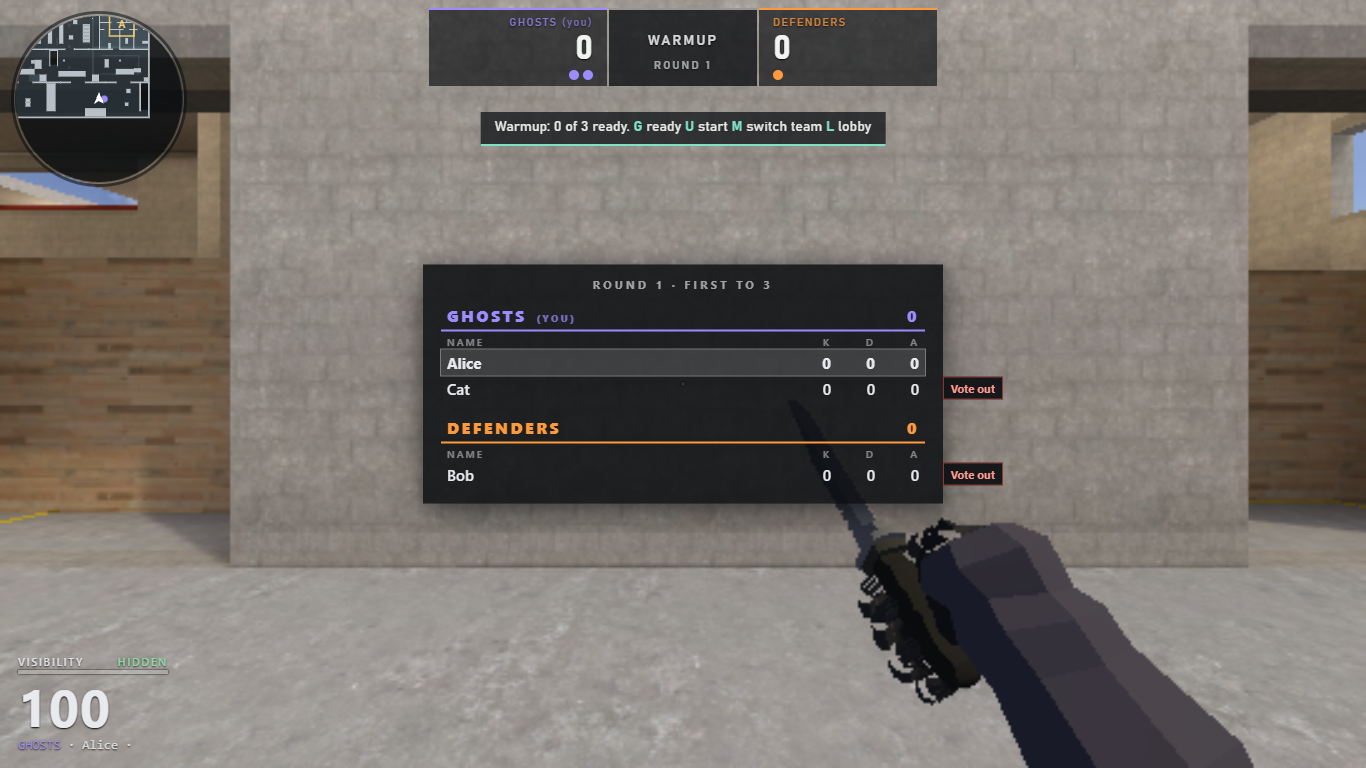
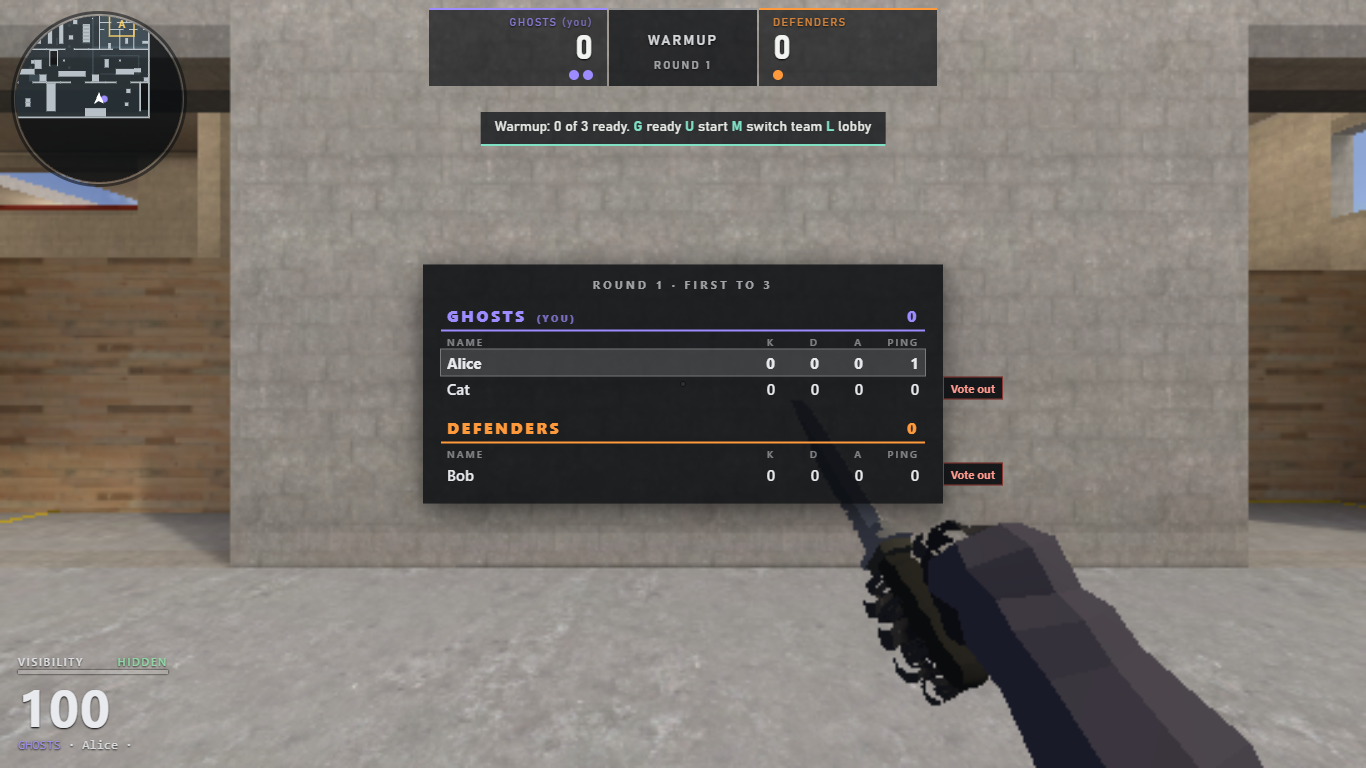
Scoreboard ping column: server-measured per-player ping (protocol 14)

diff --git a/client/src/presenter.ts b/client/src/presenter.ts
@@ -490,7 +490,7 @@ body.sb-lowhp #sb-low { display: block; }
     border-bottom: 2px solid currentColor; font: 800 16px/1 system-ui, sans-serif; letter-spacing: .15em; }
 #sb-scores .hdr.ghosts { color: #9d8cff; } #sb-scores .hdr.defenders { color: #ff9a3c; }
 #sb-scores .hdr.mine span:first-child::after { content: '  (YOU)'; white-space: pre; font-size: 10px; letter-spacing: .2em; opacity: .7; }
-#sb-scores .row { display: grid; grid-template-columns: 1fr 44px 44px 44px; padding: 4px 6px; }
+#sb-scores .row { display: grid; grid-template-columns: 1fr 44px 44px 44px 56px; padding: 4px 6px; }
 #sb-scores .row span { overflow: hidden; text-overflow: ellipsis; white-space: nowrap; }
 #sb-scores .row span + span { text-align: right; font-variant-numeric: tabular-nums; }
 #sb-scores .row.cols { opacity: .5; font-size: 10px; letter-spacing: .2em; padding-bottom: 2px; }
@@ -1365,6 +1365,7 @@ export const createPresenter: CreatePresenter = (app, camera) => {
     let scoresRosterV = -1, scoresLocalId = -1, scoresTeam: Team | null = null;
     let scoresG = -1, scoresD = -1, scoresRound = -1, scoresCarrier = -1, scoresWin = -1;
     let voteKick: ((playerId: number) => void) | null = null;
+    const pingOf = new Map<number, number>();
     let shownDeadKey = NaN;
     let shownDeadEl = false;
 
@@ -1689,7 +1690,7 @@ export const createPresenter: CreatePresenter = (app, camera) => {
             span(hdr, '', TEAM_LABEL[team]);
             span(hdr, '', String(team === 'ghosts' ? match.scoreGhosts : match.scoreDefenders));
             const cols = div('', scoresEl, 'row cols');
-            span(cols, '', 'NAME'); span(cols, '', 'K'); span(cols, '', 'D'); span(cols, '', 'A');
+            span(cols, '', 'NAME'); span(cols, '', 'K'); span(cols, '', 'D'); span(cols, '', 'A'); span(cols, '', 'PING');
             const members = roster.filter(p => p.team === team)
                 .sort((a, b) => b.kills - a.kills || a.deaths - b.deaths || a.id - b.id);
             if (members.length === 0) div('', scoresEl, 'empty').textContent = 'No players';
@@ -1700,6 +1701,7 @@ export const createPresenter: CreatePresenter = (app, camera) => {
                 span(row, '', String(p.kills));
                 span(row, '', String(p.deaths));
                 span(row, '', String(p.assists));
+                span(row, 'ping', p.bot ? 'BOT' : pingOf.has(p.id) ? String(pingOf.get(p.id)) : '-');
                 if (voteKick && !p.bot && p.id !== local.id) {
                     const id = p.id, kick = voteKick;
                     const b = document.createElement('button');
@@ -1744,6 +1746,12 @@ export const createPresenter: CreatePresenter = (app, camera) => {
             updateBanner(dt, local, match);
             updateUse(dt, local);
             updateScores(local, match);
+        },
+
+        setPings(pings: readonly [number, number][]): void {
+            pingOf.clear();
+            for (let i = 0; i < pings.length; i++) pingOf.set(pings[i][0], pings[i][1]);
+            rosterVersion++; // redraw the scoreboard if it is open
         },
 
         setVoteKick(kick: ((playerId: number) => void) | null): void {

diff --git a/server/src/ping.test.ts b/server/src/ping.test.ts
@@ -1,0 +1,65 @@
+import { describe, expect, it } from 'vitest';
+import { PING_MAX, decodeClient, type ServerMsg } from '../../shared/protocol';
+import type { MapData } from '../../shared/types';
+import { Game, smoothPing } from './game';
+
+const MAP: MapData = {
+    name: 'ping', displayName: 'Ping',
+    bounds: { min: [-50, -0.5, -50], max: [50, 4, 50] },
+    boxes: [{ min: [-50, -0.5, -50], max: [50, 0, 50] }],
+    spawns: { ghosts: [{ pos: [0, 0, 10], yaw: 0 }], defenders: [{ pos: [0, 0, -10], yaw: 180 }] },
+    bombSites: [{ name: 'A', min: [-3, 0, 7], max: [3, 2.5, 13] }]
+};
+
+function room(): { game: Game; inbox: ServerMsg[][]; ids: number[] } {
+    const game = new Game(MAP, { lobby: true });
+    const inbox: ServerMsg[][] = [];
+    const ids: number[] = [];
+    for (const name of ['Ann', 'Bo']) {
+        const box: ServerMsg[] = [];
+        inbox.push(box);
+        ids.push(game.join({ send: m => { box.push(structuredClone(m)); } }, name));
+    }
+    return { game, inbox, ids };
+}
+
+describe('scoreboard ping', () => {
+    it('smooths samples and keeps them whole numbers from 0 to the cap', () => {
+        expect(smoothPing(-1, 80.4)).toBe(80);
+        expect(smoothPing(100, 200)).toBe(135);
+        expect(smoothPing(-1, 5000)).toBe(PING_MAX);
+        expect(smoothPing(50, -20)).toBeGreaterThanOrEqual(0);
+    });
+
+    it('sends every measured human to every player, as server-measured numbers', () => {
+        const { game, inbox, ids } = room();
+        game.setPing(ids[0], 42);
+        game.sendPings();
+        for (const box of inbox) {
+            const m = box.filter(x => x.type === 'pings').at(-1);
+            expect(m).toEqual({ type: 'pings', pings: [[ids[0], 42]] }); // Bo has no measurement yet
+        }
+        game.setPing(ids[1], 99999);
+        game.sendPings();
+        const last = inbox[0].filter(x => x.type === 'pings').at(-1) as { pings: [number, number][] };
+        expect(last.pings.find(p => p[0] === ids[1])?.[1]).toBe(PING_MAX);
+    });
+
+    it('never has a ping for a bot, and says nothing when nobody is measured', () => {
+        const { game, inbox } = room();
+        const bot = game.addBot('defenders');
+        game.setPing(bot, 30);
+        game.sendPings();
+        expect(inbox[0].some(x => x.type === 'pings')).toBe(false);
+    });
+
+    it('is not part of the roster and cannot be set by a client message', () => {
+        const { game, inbox, ids } = room();
+        game.setPing(ids[0], 42);
+        game.handleMessage(ids[0], { type: 'ready', ready: true });
+        const roster = inbox[0].filter(x => x.type === 'roster').at(-1) as { players: object[] };
+        expect(roster.players.every(p => !('ping' in p))).toBe(true);
+        expect(() => decodeClient(JSON.stringify({ type: 'pings', pings: [[1, 1]] }))).toThrow();
+        expect(() => decodeClient(JSON.stringify({ type: 'ping', ping: 1 }))).toThrow();
+    });
+});

diff --git a/server/src/game.ts b/server/src/game.ts
@@ -16,7 +16,7 @@ import {
 } from '../../shared/bomb';
 import { createPlayerState, horizontalSpeed, stepPlayer } from '../../shared/movement';
 import {
-    PROTOCOL_VERSION, SNAPSHOT_RATE, type BombEvent, type BombMsg, type ClientMsg, type DamageKind, type KickVoteInfo, type KillMsg, type MapVoteMsg, type MatchStats,
+    PING_MAX, PROTOCOL_VERSION, SNAPSHOT_RATE, type BombEvent, type BombMsg, type ClientMsg, type DamageKind, type KickVoteInfo, type KillMsg, type MapVoteMsg, type MatchStats,
     type NetCmd, type PlayerSnap, type RosterEntry, type RoundMsg, type ServerMsg, type ShotEvent, type SlashEvent, type SoundEvent,
     type SummaryMsg, type Team
 } from '../../shared/protocol';
@@ -58,6 +58,12 @@ const CHAT_REFILL_MS = 1500;
 /** Teams may differ by at most this many players after a warmup team switch. */
 const MAX_TEAM_GAP = 1;
 
+/** Smooths round-trip samples (about the last 3) and keeps the result a whole number of ms from 0 to PING_MAX. */
+export function smoothPing(previous: number, sampleMs: number): number {
+    const sample = Math.min(PING_MAX, Math.max(0, sampleMs));
+    return Math.round(previous < 0 ? sample : previous + (sample - previous) * 0.35);
+}
+
 export class Player {
     state: PlayerState = createPlayerState([0, 0, 0]);
     yaw = 0;
@@ -87,6 +93,8 @@ export class Player {
     stats: MatchStats = emptyStats();
     /** Server time this player joined: the longest-connected player inherits the creator role. */
     joinedAt = 0;
+    /** Round trip to this player in ms, measured by the server's WebSocket pings and smoothed (transport only: no rule reads it); -1 before the first. */
+    pingMs = -1;
     ready = false;
     /** The name the player asked for (cleaned, before the filter and numbering): what the rejoin restore and bans go by. */
     baseName = '';
@@ -315,6 +323,20 @@ export class Game implements BotWorld {
             });
         }
         return players;
+    }
+
+    /** A fresh round-trip sample for a player (from the server's own ping and the pong that answered it). Never a client's claim. */
+    setPing(id: number, sampleMs: number): void {
+        const p = this.players.get(id);
+        if (!p || p.bot || !Number.isFinite(sampleMs)) return;
+        p.pingMs = smoothPing(p.pingMs, sampleMs);
+    }
+
+    /** Tells everyone each human player's ping (called every few seconds by the transport). */
+    sendPings(): void {
+        const pings: [number, number][] = [];
+        for (const p of this.players.values()) if (!p.bot && p.pingMs >= 0) pings.push([p.id, p.pingMs]);
+        if (pings.length > 0) this.broadcast({ type: 'pings', pings });
     }
 
     private sendRoster(): void {

diff --git a/server/src/main.ts b/server/src/main.ts
@@ -50,6 +50,8 @@ const rooms = new Rooms(maps, defaultMapId(maps, process.env.SB_DEFAULT_MAP), {
 const roomList = new RoomListCache();
 const perIp = new Map<string, number>();
 const alive = new WeakSet<WebSocket>();
+/** When each connection's latest measuring ping went out (transport measurement only; wall-clock time is fine here). */
+const pingSent = new WeakMap<WebSocket, number>();
 let ticks = 0;
 
 // Plain HTTP on the same port for uptime checks and load balancers.
@@ -125,7 +127,11 @@ wss.on('connection', (ws, req) => {
             // Malformed input from a client is ignored, never fatal.
         }
     });
-    ws.on('pong', () => alive.add(ws));
+    ws.on('pong', () => {
+        alive.add(ws);
+        const sent = pingSent.get(ws);
+        if (sent !== undefined) { pingSent.delete(ws); room.setPing(id, performance.now() - sent); }
+    });
     ws.on('close', (code, reason) => {
         rooms.leave(roomId, id);
         const left = (perIp.get(ip) ?? 1) - 1;
@@ -144,6 +150,16 @@ const heartbeat = setInterval(() => {
     }
 }, HEARTBEAT_MS);
 
+// Measure each connection's round trip every 2 s and tell each room every 3 s (the scoreboard's ping column).
+const pinger = setInterval(() => {
+    for (const ws of wss.clients) {
+        if (pingSent.has(ws)) continue; // the last one is still out
+        pingSent.set(ws, performance.now());
+        ws.ping();
+    }
+}, 2000);
+const pingTell = setInterval(() => { for (const game of rooms.rooms.values()) game.sendPings(); }, 3000);
+
 // Timers are coarse (about 15 ms on Windows), so run however many ticks are due each wake-up.
 const started = performance.now();
 const loop = setInterval(() => {
@@ -159,6 +175,8 @@ function shutdown(): void {
     console.log('Shutting down');
     clearInterval(loop);
     clearInterval(heartbeat);
+    clearInterval(pinger);
+    clearInterval(pingTell);
     for (const ws of wss.clients) ws.close(1001, 'Server restarting');
     http.close(() => process.exit(0));
     setTimeout(() => process.exit(0), 2000).unref();

diff --git a/shared/protocol.ts b/shared/protocol.ts
@@ -7,7 +7,7 @@ import type { InputCmd, Vec3 } from './types';
 import { GUN_COUNT } from './weapons';
 import type { HitZone } from './zones';
 
-export const PROTOCOL_VERSION = 13;
+export const PROTOCOL_VERSION = 14;
 export const DEFAULT_PORT = 8080;
 /** Snapshots per second sent to each client. */
 export const SNAPSHOT_RATE = 30;
@@ -290,6 +290,8 @@ export type ServerMsg =
     | SoundEvent
     | RoundMsg
     | { type: 'roster'; players: RosterEntry[] }
+    /** Every few seconds: each human player's round trip to the server, measured by the server (never reported by a client). */
+    | PingsMsg
     | SummaryMsg
     | ChatMsg
     | DamageMsg
@@ -304,6 +306,15 @@ export type ServerMsg =
     | MapVoteMsg
     /** The room moved to another map between matches: unload the old one and load this before anything else arrives. */
     | { type: 'map'; map: string; mapName: string };
+
+/** Longest ping the server reports, in milliseconds (anything slower reads as this). */
+export const PING_MAX = 999;
+
+/** `[player id, milliseconds]` for every human player with a measurement; bots and unmeasured players are absent. */
+export interface PingsMsg {
+    type: 'pings';
+    pings: [number, number][];
+}
 
 /** A vote to remove a player, as everyone sees it. `vote` is null when none is running. */
 export interface KickVoteInfo {

diff --git a/client/src/net.ts b/client/src/net.ts
@@ -30,6 +30,8 @@ export interface NetHandlers {
     options(options: RoomOptions): void;
     /** The vote to remove a player started, changed or ended (`vote` is null). */
     kickVote(msg: KickVoteMsg): void;
+    /** Every human player's ping, measured by the server. */
+    pings(pings: readonly [number, number][]): void;
     /** The map vote on the result card changed. */
     mapVote(msg: MapVoteMsg): void;
     /**
@@ -269,6 +271,9 @@ export class Net {
                 break;
             case 'kickvote':
                 handlers.kickVote(msg);
+                break;
+            case 'pings':
+                handlers.pings(msg.pings);
                 break;
             case 'mapvote':
                 handlers.mapVote(msg);

diff --git a/client/src/presenter-api.ts b/client/src/presenter-api.ts
@@ -217,6 +217,11 @@ export interface Presenter {
      * only while the mouse pointer is free.
      */
     setVoteKick(kick: ((playerId: number) => void) | null): void;
+    /**
+     * Every human player's round trip to the server in ms (`[player id, ms]`, measured by the server, sent every few
+     * seconds): shown as the scoreboard's Ping column. Bots and players not listed show a dash.
+     */
+    setPings(pings: readonly [number, number][]): void;
     /** A kill anywhere in the room. `zone` as in `died`. */
     killFeed(killerId: number, victimId: number, kind: KillKind, zone: HitZone | null, weapon?: string): void;
 }

diff --git a/client/src/main.ts b/client/src/main.ts
@@ -628,6 +628,7 @@ async function start(): Promise<void> {
             ui.setOptions(o);
         },
         kickVote(msg): void { ui.setKickVote(msg.vote, net.serverTime()); syncVoteKick(); },
+        pings(list): void { presenter.setPings(list); },
         mapVote(msg): void { ui.setMapVote(msg); },
         map(msg): Promise<void> { return swapMap(msg.map, msg.mapName); }
     });

diff --git a/shared/protocol.test.ts b/shared/protocol.test.ts
@@ -13,8 +13,8 @@ const cmd: NetCmd = {
 const SNAP_HEAD = 75 + 5 + 7 * GUN_COUNT + 2 + 2 + 1 + 1;
 
 describe('wire format', () => {
-    it('is protocol version 13', () => {
-        expect(PROTOCOL_VERSION).toBe(13);
+    it('is protocol version 14', () => {
+        expect(PROTOCOL_VERSION).toBe(14);
     });
 
     it('round-trips a command exactly, in 26 bytes', () => {

diff --git a/HANDOFF.md b/HANDOFF.md
@@ -341,7 +341,7 @@ Follow `ROADMAP.md`. In short: wave 1 (package A, combat core, protocol 9; packa
 
 ## Package L (menus and settings) in detail
 
-Built on `claude/menus-redesign-bad369` (from `main` at `91e9671`), 2026-11-17. Client UI only: no message, no `PROTOCOL_VERSION` change, `git diff main -- shared server` is empty. 379 tests (7 new, in `client/src/menu-logic.test.ts`), typecheck clean.
+Built on `claude/menus-redesign-bad369` (from `main` at `91e9671`), 2026-11-17. Client UI plus one added feature (scoreboard ping, below) that bumps `PROTOCOL_VERSION` to 14; apart from that `git diff main -- shared server` is empty. 383 tests (7 new in `client/src/menu-logic.test.ts`, 4 in `server/src/ping.test.ts`), typecheck clean.
 
 - **Home page.** `showMenu` (`client/src/ui.ts`) is now a short screen: the name field, then Quick play (the primary button), Rooms, Practice range, Settings, How to play. An invite link (`?room=`) adds a primary "Join <code>" button above Quick play. Each choice opens its own page; Back or Esc goes back one page (`PageNav` in `client/src/menu-logic.ts`, pure, tested); Esc on the home page does nothing. The how-to page opens first on a first visit (the `sb-howto` flag, set by "Got it" or by joining) and is reachable any time from the home page.
 - **Rooms page.** The public list as a table (room code, map, players with bots named, capacity, lobby or match score) with Refresh and a Join (or Full) button per row, an empty state with a "Create a public room" shortcut, an error state with "Try again", a "Join by code" box (Enter submits) and a primary "Create room" button. `roomListView` is in `client/src/community-ui.ts`.
@@ -355,3 +355,4 @@ Built on `claude/menus-redesign-bad369` (from `main` at `91e9671`), 2026-11-17. 
 - **Decisions I took on my own.** The home-page invite button instead of landing on the Rooms page; the first-visit how-to as a page instead of a side card; the in-game and menu settings sharing one element; the Controls page folded into the tab; no "hit sound" setting (none exists; the Audio tab has the three volumes); the player name is not a setting (it is on the home page and fixed once in a room); Quick play still passes the chosen map (as before).
 - **Verified** in headless Chrome (software GL, scratch ports 8090 and 5190, driven over the DevTools protocol; the owner's 8080 and 5173 were not touched): every page and every settings tab at 1366x768 and 1920x1080 (`docs/review/menus/`, files `<width>-NN-<page>.png`); first visit lands on the how-to, "Got it" goes home, Esc steps back page by page, create form defaults to Private, Public changes the button, bot skill enables with fill on; each settings tab fits its card at both sizes; rebinding Reload to V then "Reset controls to defaults" back to R in the menu; a private room made from the form is not listed and a public one is (list shows 1 row, then Join lands in its lobby); creator's and joiner's lobby panels; the pause menu and in-game settings on the Controls tab, Esc returning to the pause menu; the invite home page; "FIRST TO 3"; the scoreboard's vote buttons with three people, a click starting a vote (banner on the other clients), and the buttons disappearing while it runs. 
 - **Not verified.** Real pointer lock (so the scoreboard buttons by mouse in play, Esc as pause, the mouse released for menus), the phone notice, `sb-rejoin` after a dropped connection (code untouched, not run), `?auto=1` runs of the practice range and Quick play from the new buttons (the choice they return is built exactly as before; only the lobby and room pages were joined), the feedback panel from the General tab, the map vote on the result card (untouched), a real person using the keyboard only, a real touch screen, and the look on a real GPU. Several game pages at once lose their WebGL context in software GL (as in earlier packages); the flows were run with `?res=0.3` and one or two game pages at a time.
+- **Scoreboard ping column (protocol 14; the server must be restarted together with the client).** New JSON message `{type:'pings', pings:[[playerId, ms], ...]}` (`PingsMsg`, `PING_MAX` 999 in `shared/protocol.ts`), a separate message rather than a roster field so the roster is not re-sent every few seconds. `server/src/main.ts` sends a WebSocket ping to every connection every 2 s (one outstanding at a time), times the pong with `performance.now()` and calls `Game.setPing`; `smoothPing` (`server/src/game.ts`) keeps about the last three samples, whole milliseconds, 0 to 999; every 3 s each room's `Game.sendPings()` broadcasts every measured human (bots and unmeasured players are absent). Transport measurement only: no rule, timer or snapshot reads it, and the binary formats are unchanged (`prediction.test.ts` passes). A client cannot set it: no client message carries a ping (tested that `decodeClient` rejects `pings` and `ping`). Client: `Presenter.setPings`, a right-aligned PING column on both teams on the Tab scoreboard, "BOT" for bots and "-" until measured. Seen in headless Chrome against the scratch server (localhost reads 0 to 1 ms); real internet values were not seen.
